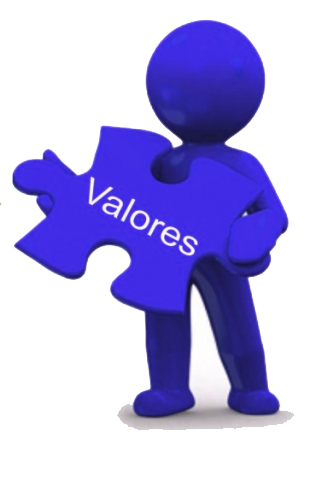
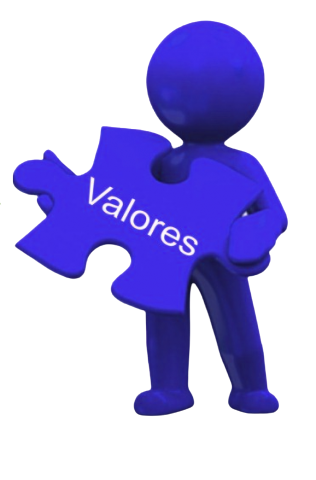
Fixing contacto sizes

diff --git a/pages/SobreNosotros.html b/pages/SobreNosotros.html
@@ -69,11 +69,10 @@
         <section class="container-fluid ">
             <div class="container_body">
                 <div class="row">
-                    <div class="item col-sm-3 nosotros_logo ">
+                    <div class="item col-sm-5 nosotros_logo ">
                         <img  src="../assets/images/mision.png" > 
                     </div>
-                    <!-- <div class="item col-sm-9"> -->
-                    <div class="item col-sm-9 ">  
+                    <div class="item col-sm-7 ">  
                         <h3> Mision </h3> 
                         <h5> Elevar continuamente el nivel de experiencia de las personas mediante el uso de internet y tecnologia para ayudarse 
                             entre si a encontrar, descubrir y aprender habitos saludables. Liderar el compartir nuestra forma de alimentarnos.
@@ -87,10 +86,10 @@
         <section class="container-fluid ">
             <div class="container_body">
                 <div class="row">
-                    <div class="item col-sm-3 nosotros_logo">
+                    <div class="item col-sm-5 nosotros_logo">
                         <img src="../assets/images/vision3.png" > 
                     </div>
-                    <div class="item col-sm-9">
+                    <div class="item col-sm-7">
                         <h3> Vision </h3> 
                         <h5>Promover el intercambio de información y buenas prácticas. Fortalecer la capacitación en educación nutricional.
                             Contruir otra forma de relacionarse con los alimentos. Ofrecer alimentos saludables y de calidad que satisfagan a los consumidores.
@@ -106,10 +105,10 @@
         <section class="container-fluid ">
             <div class="container_body">
                 <div class="row">
-                    <div class="item col-sm-3 nosotros_logo">
+                    <div class="item col-sm-5 nosotros_logo">
                         <img  src="../assets/images/values.png" > 
                     </div>
-                    <div class="item col-sm-9">
+                    <div class="item col-sm-7">
                         <h3> Valores </h3> 
                         <h5>Nuestros principios de acción son Integridad, Compromiso,Pasion, Innovacion, Trabajo en equipo. <br>
                             Crear valores a través del trabajo en equipo y el desarrollo de las personas.

diff --git a/pages/estilos.css b/pages/estilos.css
@@ -24,7 +24,7 @@ h4 {
   margin-left: 10px;
 }
 
-.imagen_receta {
+.imagen_receta, .container_body {
   margin-top: 30px;
   padding-top: 10px;
   padding-bottom: 20px;
@@ -130,7 +130,7 @@ h1 {
   height: 230px;
 }
 
-.card, .container_body {
+.card {
   margin-top: 10px;
   border: 2px solid #b6f8f4;
   border-radius: 15px;
@@ -162,7 +162,7 @@ h1 {
   }
 }
 /*----------------------------------responsive 701px to 800px -------------------------*/
-@media (min-width: 701px) and (max-width: 800px) {
+@media (min-width: 701px) and (max-width: 850px) {
   /*Imagen del Index*/
   .item img {
     margin-top: 120px;
@@ -172,7 +172,7 @@ h1 {
     display: none;
   }
 
-  /*---Centrando Carousel de indez ---- */
+  /*---Centrando Carousel de index ---- */
   .carousel-inner > .active {
     transform: translateX(15%);
   }
@@ -185,7 +185,7 @@ h1 {
     display: flex;
   }
 
-  .card, .container_body {
+  .card {
     border: 2px solid #b6f8f4;
     border-radius: 15px;
     margin: 10px;
@@ -234,7 +234,7 @@ h1 {
     display: flex;
   }
 
-  .card, .container_body {
+  .card {
     border: 2px solid #b6f8f4;
     border-radius: 15px;
     margin: 10px;

diff --git a/scss/_media_700.scss b/scss/_media_700.scss
@@ -1,5 +1,5 @@
 /*----------------------------------responsive 701px to 800px -------------------------*/
-@media (min-width:701px) and (max-width:800px){
+@media (min-width:701px) and (max-width:850px){
     /*Imagen del Index*/
     .item img{
         margin-top: 120px;
@@ -9,7 +9,7 @@
         display:none
         
     }
-    /*---Centrando Carousel de indez ---- */
+    /*---Centrando Carousel de index ---- */
     .carousel-inner>.active {
         transform: translateX(15%);
         img{
@@ -44,5 +44,6 @@
     .copy_footer{
         font-size: 14px;
     }
+
 
 }

diff --git a/scss/estilos.scss b/scss/estilos.scss
@@ -113,7 +113,7 @@ h3{
 /*------------------------------Sobre Nosotros ----------------------------*/
 /*extend: Container body extiende de la clase card de index  */
 .container_body{
-    @extend .card;
+    @extend .imagen_receta;
     justify-content: space-around;
     width:99%;
     background:$gradient-right;
